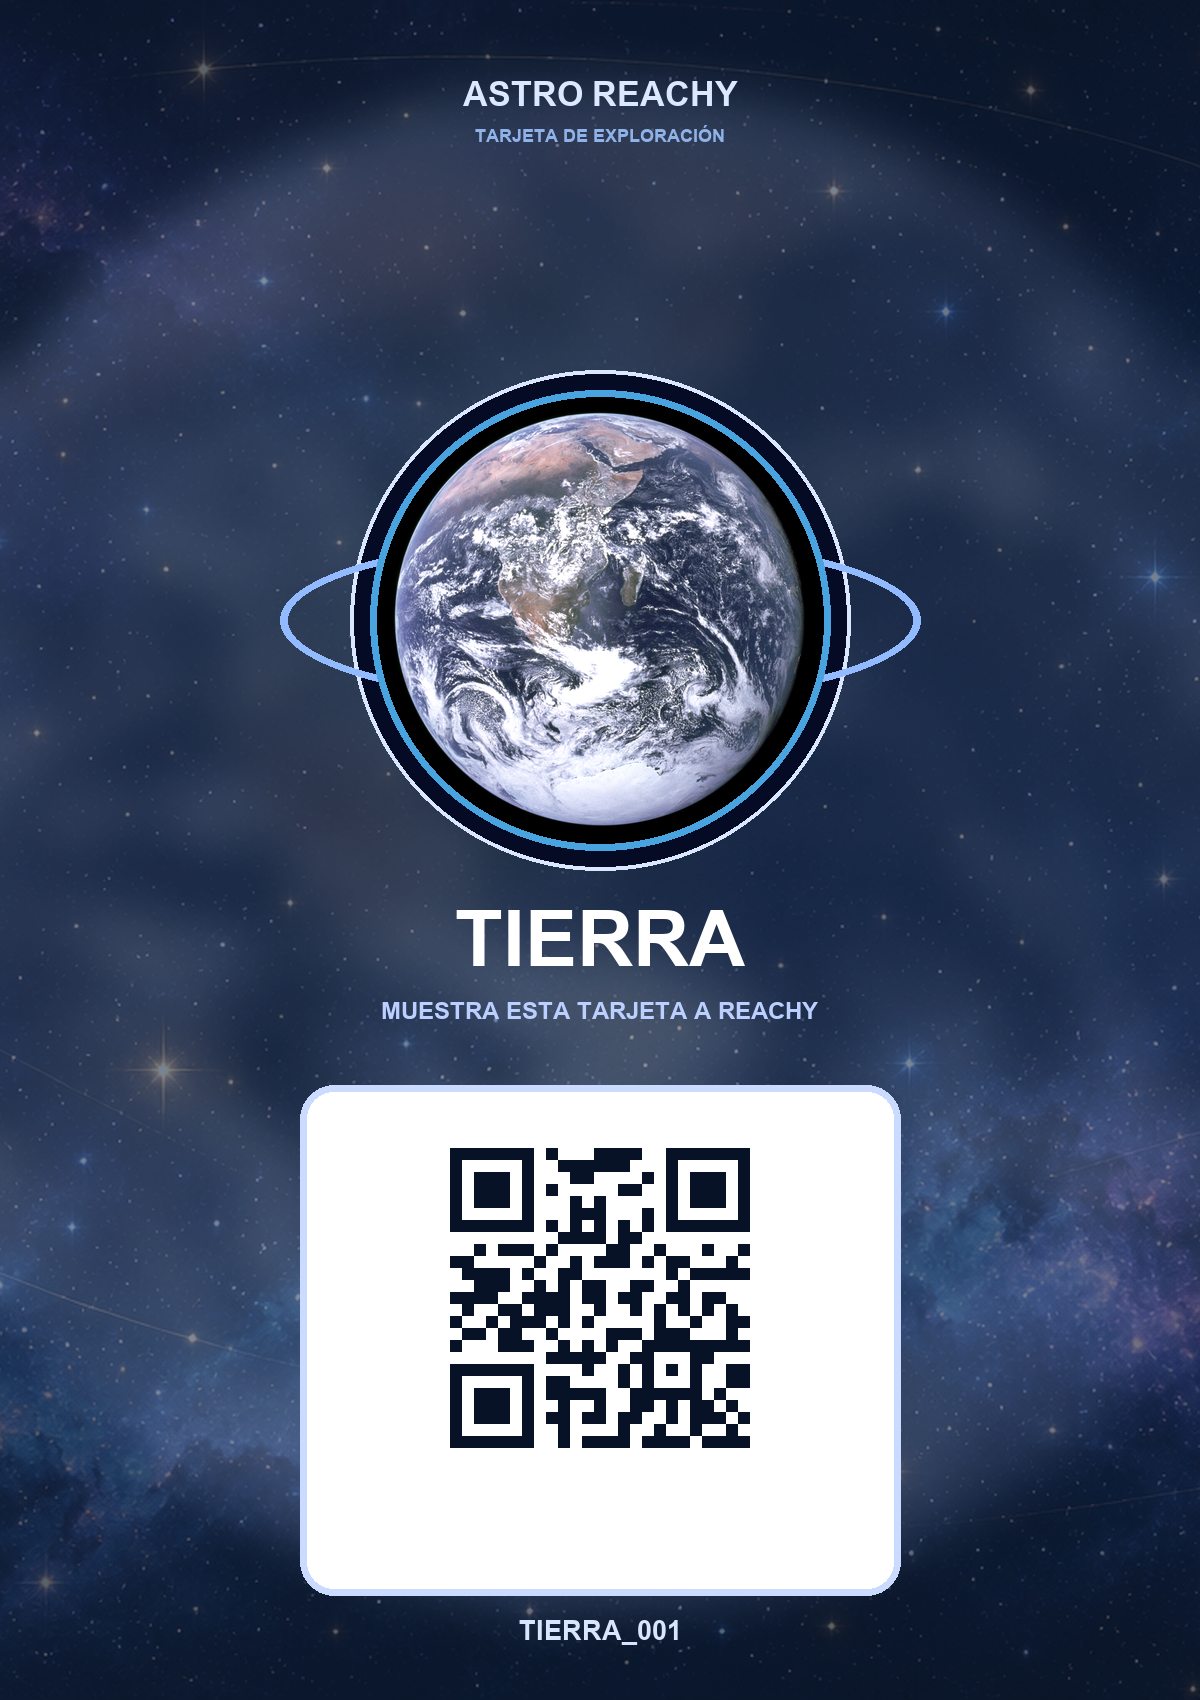
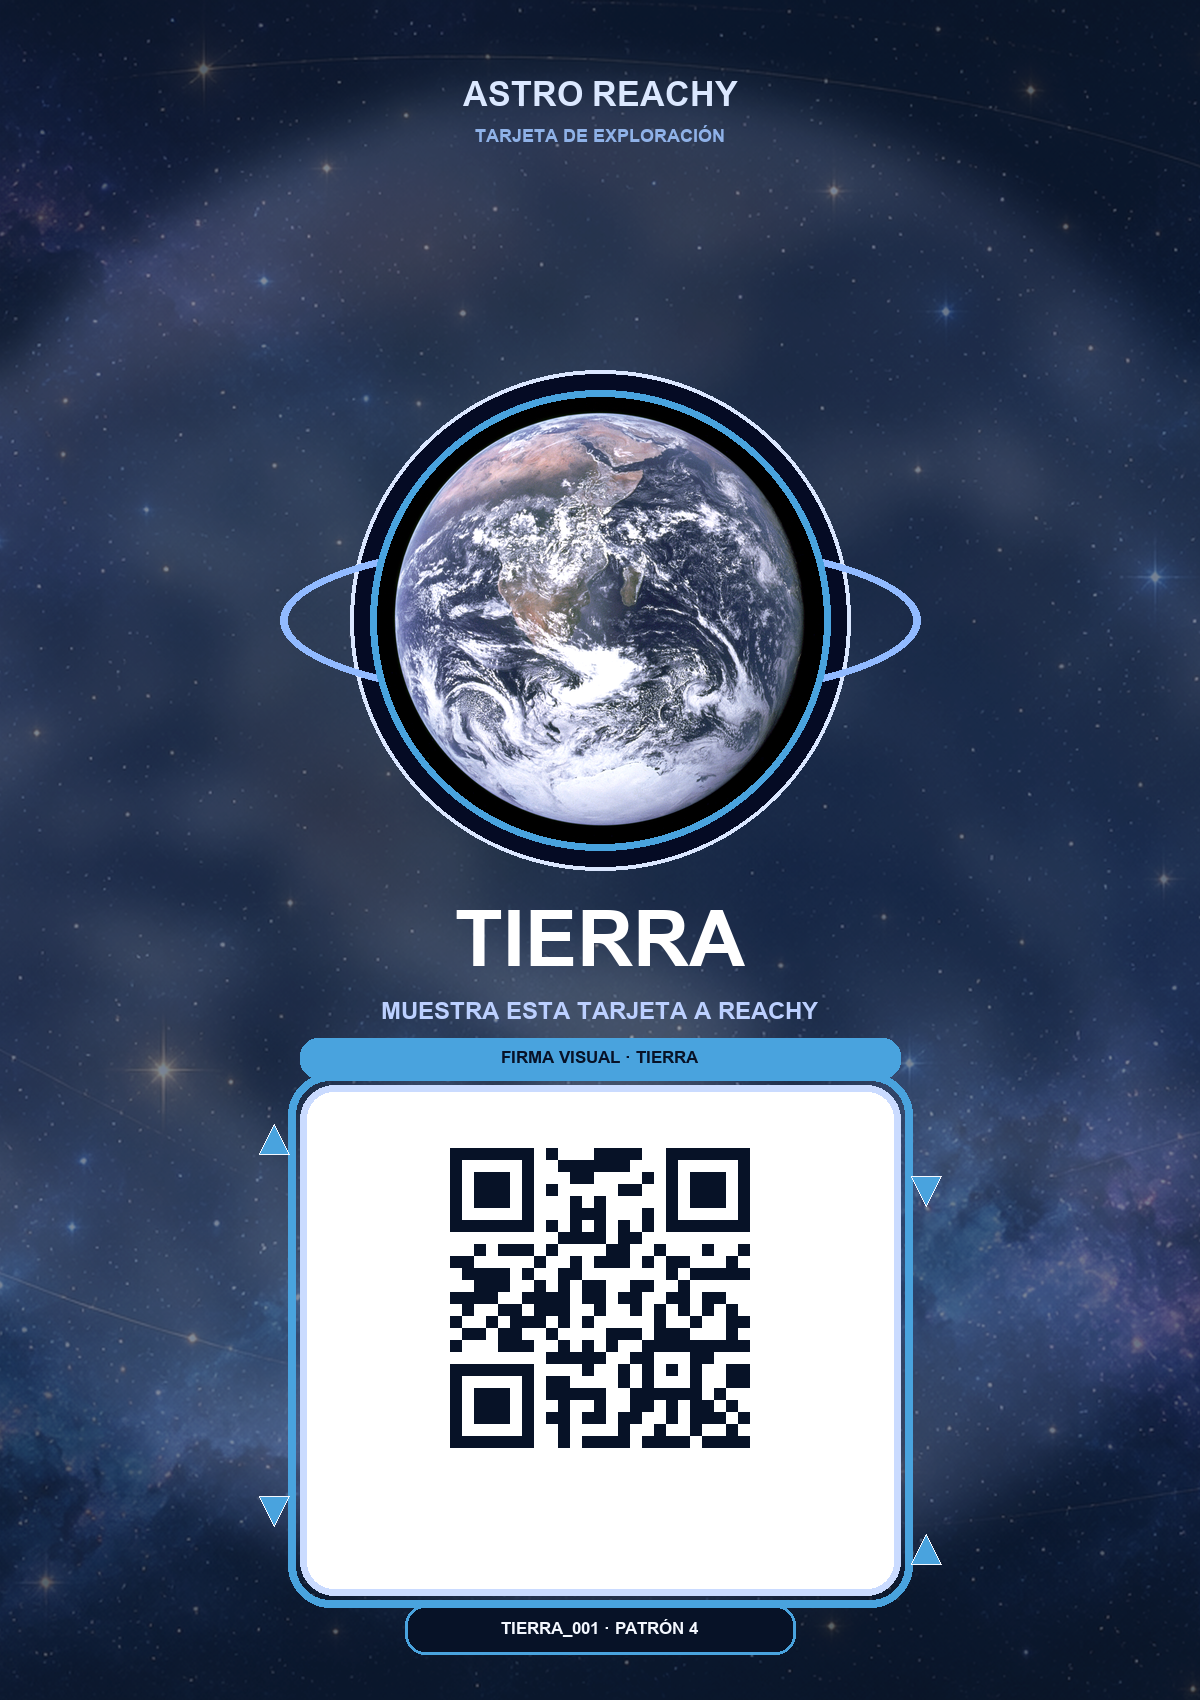
Add distinct visual QR card signatures

Changed region(s): [[0.2467, 0.5924, 0.8017, 0.9353], [0.2467, 0.9353, 0.74, 0.9665], [0.2158, 0.6547, 0.2467, 0.9353]]

diff --git a/scripts/generate_cards.py b/scripts/generate_cards.py
@@ -58,6 +58,43 @@ def planet_photo(card, draw, image_key, name, color, index):
     card.paste(source, (370, 390), mask)
     draw.ellipse((370, 390, 830, 850), outline=color, width=7)
 
+def qr_signature(draw, name, qr_id, color, index):
+    """Añade una firma humana, sin invadir la zona silenciosa del QR.
+
+    El QR mantiene siempre tinta oscura sobre blanco: los patrones se sitúan
+    alrededor de su tarjeta y sirven para reconocerla de un vistazo y orientar
+    a quien la muestra a la cámara.
+    """
+    # Banda identificativa y marco cromático propios de cada astro.
+    draw.rounded_rectangle((300, 1038, 900, 1078), 18, fill=color)
+    centered(draw, f"FIRMA VISUAL · {name.upper()}", 1047, font(17, True), "#071227")
+    draw.rounded_rectangle((288, 1073, 912, 1607), 42, outline=color, width=8)
+
+    # Cuatro familias de patrones, escogidas de forma estable por planeta.
+    # Están fuera del propio QR y de sus márgenes blancos obligatorios.
+    style = index % 4
+    if style == 0:  # órbitas: nodos redondos
+        for x, y in ((275, 1125), (925, 1190), (275, 1490), (925, 1550)):
+            draw.ellipse((x-14, y-14, x+14, y+14), fill=color, outline="#f4f8ff", width=3)
+    elif style == 1:  # cometas: pequeñas estelas diagonales
+        for x, y, direction in ((270, 1140, 1), (930, 1215, -1), (270, 1525, 1), (930, 1450, -1)):
+            draw.line((x, y, x + 32 * direction, y - 22), fill=color, width=9)
+            draw.ellipse((x-7, y-7, x+7, y+7), fill="#f4f8ff", outline=color, width=3)
+    elif style == 2:  # constelación: cuadrados y líneas discontinuas
+        for x, y in ((274, 1130), (925, 1130), (274, 1535), (925, 1535)):
+            draw.rounded_rectangle((x-13, y-13, x+13, y+13), 5, fill=color, outline="#f4f8ff", width=3)
+        for y in (1220, 1415):
+            draw.line((252, y, 282, y), fill=color, width=6)
+            draw.line((918, y, 948, y), fill=color, width=6)
+    else:  # asteroides: triángulos con orientación alterna
+        for x, y, up in ((274, 1140, True), (926, 1190, False), (274, 1510, False), (926, 1550, True)):
+            points = [(x, y-16), (x-15, y+14), (x+15, y+14)] if up else [(x, y+16), (x-15, y-14), (x+15, y-14)]
+            draw.polygon(points, fill=color, outline="#f4f8ff")
+
+    # Un identificador textual visible, útil si las tarjetas se mezclan.
+    draw.rounded_rectangle((405, 1605, 795, 1654), 20, fill="#071227", outline=color, width=3)
+    centered(draw, f"{qr_id} · PATRÓN {style + 1}", 1618, font(17, True), "#f4f8ff")
+
 items = json.loads((ROOT / "data" / "objects.json").read_text(encoding="utf-8"))
 items.extend([{"name":"Más información","qr_id":"MAS_001"},{"name":"Otro planeta","qr_id":"OTRA_001"}])
 for item in items:
@@ -79,6 +116,7 @@ for item in items:
     centered(draw,"MUESTRA ESTA TARJETA A REACHY" if qr_id not in {"MAS_001","OTRA_001"} else "RESPUESTA PARA REACHY",997,font(24,True),"#bcd0ff")
     qr = qrcode.QRCode(error_correction=qrcode.constants.ERROR_CORRECT_H, box_size=12, border=4); qr.add_data(qr_id); qr.make(fit=True)
     qr_image = qr.make_image(fill_color="#071227",back_color="white").convert("RGBA"); qr_image.thumbnail((490,490),Image.Resampling.LANCZOS)
+    qr_signature(draw, name, qr_id, PALETTES[name], items.index(item))
     draw.rounded_rectangle((300,1085,900,1595),34,fill="white",outline="#cadbff",width=7); card.alpha_composite(qr_image,((SIZE[0]-qr_image.width)//2,1100))
-    centered(draw,qr_id,1615,font(27,True),"#d8e5ff"); card.convert("RGB").save(OUT/f"{qr_id}.png",dpi=(300,300))
+    card.convert("RGB").save(OUT/f"{qr_id}.png",dpi=(300,300))
 print(f"{len(items)} tarjetas Astro Reachy creadas en {OUT}")
